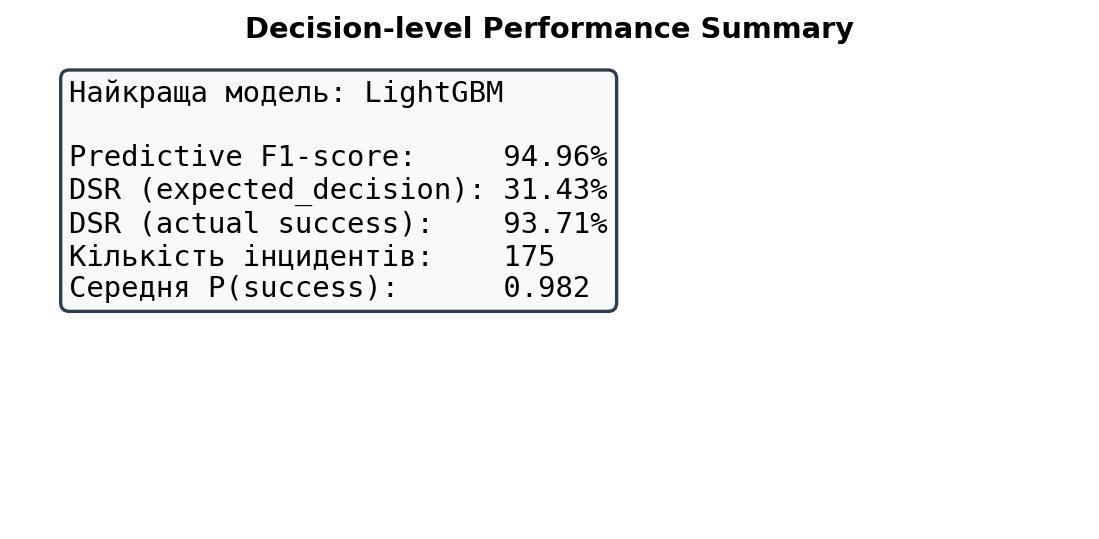
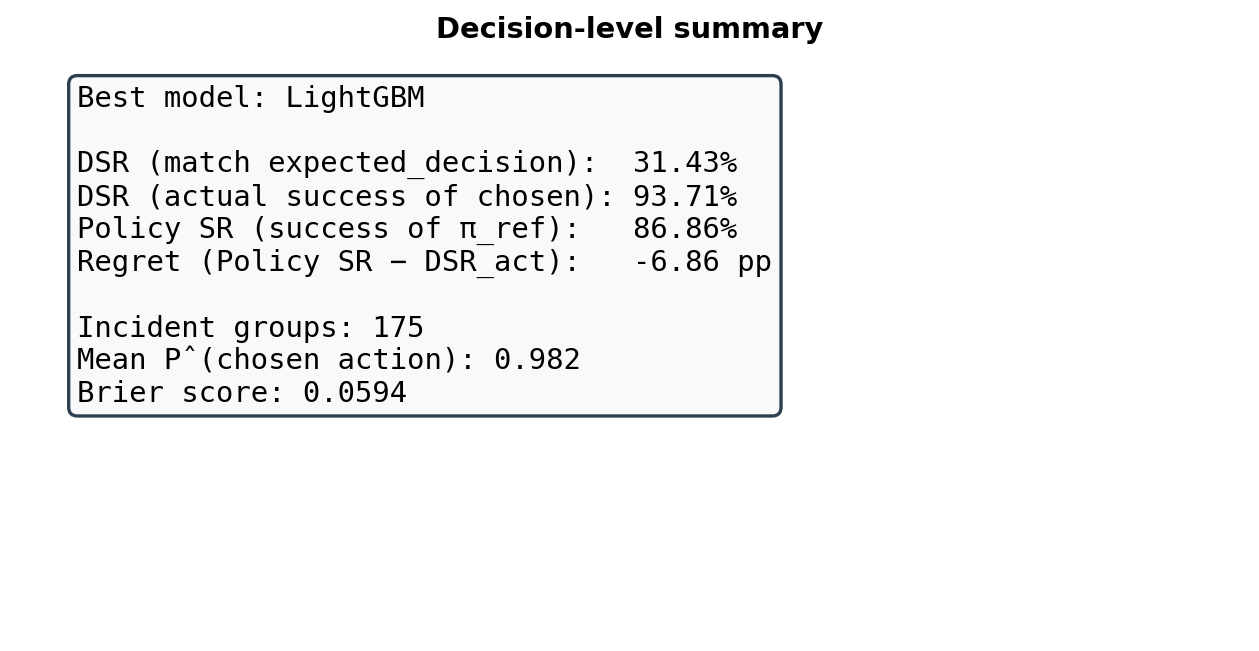
add decision-level metrics (Policy SR, Regret, Brier score)

Changed region(s): [[0.0309, 0.0297, 0.7734, 0.6531]]

diff --git a/scripts/02_train_evaluate.py b/scripts/02_train_evaluate.py
@@ -1,3 +1,12 @@
+"""
+02_train_evaluate.py — GroupKFold training + decision-level metrics.
+
+Додано:
+  - success rate reference-policy дії (Policy SR)
+  - Regret = Policy SR − DSR_actual  (від'ємний = модель краща за policy)
+  - Brier score (калібрування ймовірностей)
+"""
+
 import os
 import warnings
 import numpy as np
@@ -10,7 +19,8 @@ from sklearn.linear_model import LogisticRegression
 from sklearn.ensemble import RandomForestClassifier
 from sklearn.metrics import (
     accuracy_score, precision_score, recall_score, f1_score,
-    roc_auc_score, roc_curve, confusion_matrix, balanced_accuracy_score
+    roc_auc_score, roc_curve, confusion_matrix, balanced_accuracy_score,
+    brier_score_loss,
 )
 from xgboost import XGBClassifier
 from lightgbm import LGBMClassifier
@@ -47,12 +57,11 @@ leakage_cols = [
     "post_cpu", "post_memory", "post_latency_ms",
     "post_error_rate", "post_dependency_available", "post_availability",
 ]
-drop_extra = ["replicate"]  # службове поле
+drop_extra = ["replicate"]
 
 feature_cols = [c for c in df.columns if c not in leakage_cols + drop_extra]
 print(f"\n[INFO] Використовуємо фічі: {feature_cols}")
 
-# Кодування категоріальних
 label_encoders = {}
 df_enc = df.copy()
 for col in df_enc[feature_cols].select_dtypes(include=["object", "string"]).columns:
@@ -87,12 +96,12 @@ models = {
 # ============================================================
 gkf = GroupKFold(n_splits=5)
 results = []
-oof_store = {}          # name -> (y_true, y_pred, y_proba)
+oof_store = {}
 best_name, best_f1 = None, -1
 best_oof_proba = None
 
 for name, model in models.items():
-    accs, precs, recs, f1s, bal_accs, aucs = [], [], [], [], [], []
+    accs, precs, recs, f1s, bal_accs, aucs, briers = [], [], [], [], [], [], []
     oof_pred = np.zeros(len(df_enc), dtype=int)
     oof_proba = np.zeros(len(df_enc))
 
@@ -116,6 +125,7 @@ for name, model in models.items():
             aucs.append(roc_auc_score(y_te, proba))
         except ValueError:
             aucs.append(np.nan)
+        briers.append(brier_score_loss(y_te, proba))
 
     mean_f1 = float(np.mean(f1s))
     results.append({
@@ -126,6 +136,7 @@ for name, model in models.items():
         "F1-score, %": round(mean_f1 * 100, 2),
         "Balanced Accuracy, %": round(np.mean(bal_accs) * 100, 2),
         "ROC-AUC": round(np.nanmean(aucs), 3),
+        "Brier": round(np.mean(briers), 4),
     })
     oof_store[name] = (y.values, oof_pred, oof_proba)
 
@@ -140,39 +151,56 @@ print(results_df.to_string(index=False))
 print(f"\n[INFO] Найкраща модель за F1-score: {best_name}")
 
 # ============================================================
-# 5. Decision Success Rate (decision-level)
+# 5. Decision-level метрики: DSR + Policy SR + Regret
 # ============================================================
 df_enc["pred_proba"] = best_oof_proba
 
-best_actions = (
-    df_enc.loc[df_enc.groupby("incident_group_id")["pred_proba"].idxmax()]
-    [["incident_group_id", "candidate_action", "expected_decision",
-      "recovery_success", "pred_proba", "scenario"]]
-    .copy()
-)
+# --- 5a. Дія, обрана моделлю (argmax P̂) ---
+best_idx = df_enc.groupby("incident_group_id")["pred_proba"].idxmax()
+model_choices = df.loc[best_idx].copy()
+model_choices = model_choices[
+    ["incident_group_id", "candidate_action", "expected_decision",
+     "recovery_success", "scenario"]
+]
+model_choices["pred_proba"] = best_oof_proba[best_idx.values]
 
-# Порівняння з expected_decision (в закодованому просторі)
-if "candidate_action" in label_encoders:
-    le = label_encoders["candidate_action"]
-    # expected_decision може бути не в тому ж енкодері, якщо не кодували
-    # Тому беремо оригінальний df
-    orig_best = df.loc[best_actions.index]
-    dsr_decision = (
-        orig_best["candidate_action"].values == orig_best["expected_decision"].values
-    ).mean() * 100
-else:
-    dsr_decision = (
-        best_actions["candidate_action"] == best_actions["expected_decision"]
-    ).mean() * 100
+dsr_policy_match = (
+    model_choices["candidate_action"].values == model_choices["expected_decision"].values
+).mean() * 100
+dsr_actual = model_choices["recovery_success"].mean() * 100
+n_groups = len(model_choices)
+mean_p = model_choices["pred_proba"].mean()
 
-dsr_actual = best_actions["recovery_success"].mean() * 100
-n_groups = len(best_actions)
+# --- 5b. Success rate саме reference-policy дії ---
+# Для кожної групи знаходимо рядок, де candidate_action == expected_decision
+policy_rows = df[df["candidate_action"] == df["expected_decision"]].copy()
+# якщо в групі кілька збігів (не повинно), беремо перший
+policy_rows = policy_rows.groupby("incident_group_id", as_index=False).first()
+policy_sr = policy_rows["recovery_success"].mean() * 100
+n_policy = len(policy_rows)
+
+# --- 5c. Regret (в процентних пунктах) ---
+# Regret = Policy_SR − DSR_actual
+#   > 0  → policy краща за модель
+#   < 0  → модель краща за policy (типовий бажаний випадок)
+regret_pp = policy_sr - dsr_actual
 
 print(f"\n--- Decision-level метрики ({best_name}) ---")
-print(f"DSR (збіг з expected_decision):     {dsr_decision:.2f}%")
-print(f"DSR (реальний успіх вибраної дії):  {dsr_actual:.2f}%")
-print(f"Кількість інцидентів (груп):        {n_groups}")
-print(f"Середня P(success) вибраної дії:    {best_actions['pred_proba'].mean():.3f}")
+print(f"DSR (збіг з expected_decision):          {dsr_policy_match:.2f}%")
+print(f"DSR (реальний успіх вибраної дії):       {dsr_actual:.2f}%")
+print(f"Policy SR (успіх дії reference policy):  {policy_sr:.2f}%  (n={n_policy})")
+print(f"Regret (Policy SR − DSR_actual):         {regret_pp:+.2f} п.п.")
+print(f"Кількість інцидентів (груп):             {n_groups}")
+print(f"Середня P̂(success) вибраної дії:         {mean_p:.3f}")
+
+brier_best = results_df.loc[results_df["Model"] == best_name, "Brier"].values[0]
+print(f"Brier score ({best_name}):               {brier_best:.4f}  (0 = ідеал)")
+
+if mean_p > 0.95 and brier_best > 0.08:
+    print("[WARN] Висока середня P̂ при непоганому Brier — можлива надмірна "
+          "самовпевненість; розгляньте CalibratedClassifierCV.")
+elif brier_best <= 0.08:
+    print("[INFO] Brier score низький — ймовірності загалом добре відкалібровані.")
 
 # ============================================================
 # 6. Візуалізації
@@ -180,18 +208,18 @@ print(f"Середня P(success) вибраної дії:    {best_actions['pre
 palette = sns.color_palette("mako", n_colors=len(models))
 model_names = list(models.keys())
 
-# ----- 6.1 Фінальна таблиця як картинка -----
-fig, ax = plt.subplots(figsize=(11, 2.2))
+# ----- 6.1 Фінальна таблиця -----
+fig, ax = plt.subplots(figsize=(12, 2.4))
 ax.axis("off")
 tbl = ax.table(
-    cellText=results_df.round(3).values,
+    cellText=results_df.round(4).values,
     colLabels=results_df.columns,
     loc="center",
     cellLoc="center",
 )
 tbl.auto_set_font_size(False)
-tbl.set_fontsize(9)
-tbl.scale(1.15, 1.6)
+tbl.set_fontsize(8.5)
+tbl.scale(1.12, 1.55)
 for (row, col), cell in tbl.get_celld().items():
     if row == 0:
         cell.set_facecolor("#2c3e50")
@@ -204,7 +232,7 @@ plt.tight_layout()
 plt.savefig("data/plots/table1_model_comparison.png", bbox_inches="tight")
 plt.close()
 
-# ----- 6.2 Barplot основних метрик -----
+# ----- 6.2 Barplot метрик -----
 metrics_long = results_df.melt(
     id_vars="Model",
     value_vars=["Accuracy, %", "Precision, %", "Recall, %", "F1-score, %", "Balanced Accuracy, %"],
@@ -221,7 +249,7 @@ plt.tight_layout()
 plt.savefig("data/plots/metrics_comparison.png", bbox_inches="tight")
 plt.close()
 
-# ----- 6.3 ROC-криві -----
+# ----- 6.3 ROC -----
 plt.figure(figsize=(7.5, 6.5))
 for i, name in enumerate(model_names):
     y_true, _, y_proba = oof_store[name]
@@ -241,7 +269,7 @@ plt.tight_layout()
 plt.savefig("data/plots/roc_curves.png", bbox_inches="tight")
 plt.close()
 
-# ----- 6.4 Confusion matrix найкращої моделі -----
+# ----- 6.4 Confusion matrix -----
 y_true_best, y_pred_best, _ = oof_store[best_name]
 cm = confusion_matrix(y_true_best, y_pred_best)
 plt.figure(figsize=(5.8, 5))
@@ -255,13 +283,12 @@ plt.tight_layout()
 plt.savefig("data/plots/confusion_matrix_best_model.png", bbox_inches="tight")
 plt.close()
 
-# ----- 6.5 Feature importance (для tree-моделей) -----
+# ----- 6.5 Feature importance -----
 tree_models = {
     "Random Forest": models["Random Forest"],
     "XGBoost": models["XGBoost"],
     "LightGBM": models["LightGBM"],
 }
-# Навчаємо на всіх даних для importance
 fig, axes = plt.subplots(1, 3, figsize=(15, 5.5))
 for ax, (name, model) in zip(axes, tree_models.items()):
     model.fit(X, y)
@@ -276,7 +303,7 @@ plt.tight_layout()
 plt.savefig("data/plots/feature_importance.png", bbox_inches="tight")
 plt.close()
 
-# ----- 6.6 Learning curve (найкраща модель) -----
+# ----- 6.6 Learning curve -----
 best_model = models[best_name]
 train_sizes, train_scores, val_scores = learning_curve(
     best_model, X, y,
@@ -310,16 +337,16 @@ plt.close()
 pre_cols = [c for c in feature_cols if c.startswith("pre_")]
 n = len(pre_cols)
 ncols = 3
-nrows = int(np.ceil(n / ncols))
+nrows = int(np.ceil(max(n, 1) / ncols))
 fig, axes = plt.subplots(nrows, ncols, figsize=(12, 3.2 * nrows))
-axes = axes.flatten()
+axes = np.array(axes).flatten()
 for i, col in enumerate(pre_cols):
     sns.histplot(data=df, x=col, hue="recovery_success", bins=25,
                  palette={0: "#e74c3c", 1: "#27ae60"}, ax=axes[i],
                  alpha=0.65, element="step", common_norm=False)
     axes[i].set_title(col)
     axes[i].set_xlabel("")
-for j in range(i + 1, len(axes)):
+for j in range(len(pre_cols), len(axes)):
     axes[j].set_visible(False)
 plt.suptitle("Розподіл pre-метрик за результатом відновлення", fontweight="bold", y=1.01)
 plt.tight_layout()
@@ -337,33 +364,53 @@ plt.tight_layout()
 plt.savefig("data/plots/recovery_time_by_scenario.png", bbox_inches="tight")
 plt.close()
 
-# ----- 6.9 DSR summary card -----
-fig, ax = plt.subplots(figsize=(7, 3.5))
+# ----- 6.9 DSR / Policy SR / Regret summary card -----
+fig, ax = plt.subplots(figsize=(8, 4.2))
 ax.axis("off")
-text = (
-    f"Найкраща модель: {best_name}\n\n"
-    f"Predictive F1-score:     {best_f1*100:.2f}%\n"
-    f"DSR (expected_decision): {dsr_decision:.2f}%\n"
-    f"DSR (actual success):    {dsr_actual:.2f}%\n"
-    f"Кількість інцидентів:    {n_groups}\n"
-    f"Середня P(success):      {best_actions['pred_proba'].mean():.3f}"
-)
-ax.text(0.05, 0.95, text, transform=ax.transAxes, fontsize=13,
-        verticalalignment="top", fontfamily="monospace",
+lines = [
+    f"Best model: {best_name}",
+    f"",
+    f"DSR (match expected_decision):  {dsr_policy_match:.2f}%",
+    f"DSR (actual success of chosen): {dsr_actual:.2f}%",
+    f"Policy SR (success of π_ref):   {policy_sr:.2f}%",
+    f"Regret (Policy SR − DSR_act):   {regret_pp:+.2f} pp",
+    f"",
+    f"Incident groups: {n_groups}",
+    f"Mean P̂(chosen action): {mean_p:.3f}",
+    f"Brier score: {brier_best:.4f}",
+]
+ax.text(0.05, 0.95, "\n".join(lines), transform=ax.transAxes,
+        fontsize=13, verticalalignment="top", fontfamily="monospace",
         bbox=dict(boxstyle="round", facecolor="#f8f9fa", edgecolor="#2c3e50", lw=1.5))
-ax.set_title("Decision-level Performance Summary", fontweight="bold", pad=8)
+ax.set_title("Decision-level summary", fontweight="bold", pad=8)
 plt.tight_layout()
 plt.savefig("data/plots/dsr_summary.png", bbox_inches="tight")
 plt.close()
 
+# ----- 6.10 Reliability diagram (calibration check) -----
+from sklearn.calibration import calibration_curve
+
+plt.figure(figsize=(6.5, 6))
+for i, name in enumerate(model_names):
+    y_true, _, y_proba = oof_store[name]
+    frac_pos, mean_pred = calibration_curve(y_true, y_proba, n_bins=8, strategy="quantile")
+    plt.plot(mean_pred, frac_pos, "o-", color=palette[i], label=name)
+plt.plot([0, 1], [0, 1], "k--", lw=1, alpha=0.6, label="Ideal")
+plt.xlabel("Mean predicted probability")
+plt.ylabel("Fraction of positives")
+plt.title("Reliability diagram (calibration)")
+plt.legend(loc="lower right")
+plt.grid(alpha=0.25)
+plt.tight_layout()
+plt.savefig("data/plots/reliability_diagram.png", bbox_inches="tight")
+plt.close()
+
 print(f"\n[INFO] Усі графіки збережено у: {os.path.abspath('data/plots')}")
-print("  • table1_model_comparison.png")
-print("  • metrics_comparison.png")
-print("  • roc_curves.png")
-print("  • confusion_matrix_best_model.png")
-print("  • feature_importance.png")
-print("  • learning_curve.png")
-print("  • pre_metrics_histograms.png")
-print("  • recovery_time_by_scenario.png")
-print("  • dsr_summary.png")
+for name in [
+    "table1_model_comparison.png", "metrics_comparison.png", "roc_curves.png",
+    "confusion_matrix_best_model.png", "feature_importance.png", "learning_curve.png",
+    "pre_metrics_histograms.png", "recovery_time_by_scenario.png",
+    "dsr_summary.png", "reliability_diagram.png",
+]:
+    print(f"  • {name}")
 print("\n[INFO] Пайплайн завершено успішно!")
